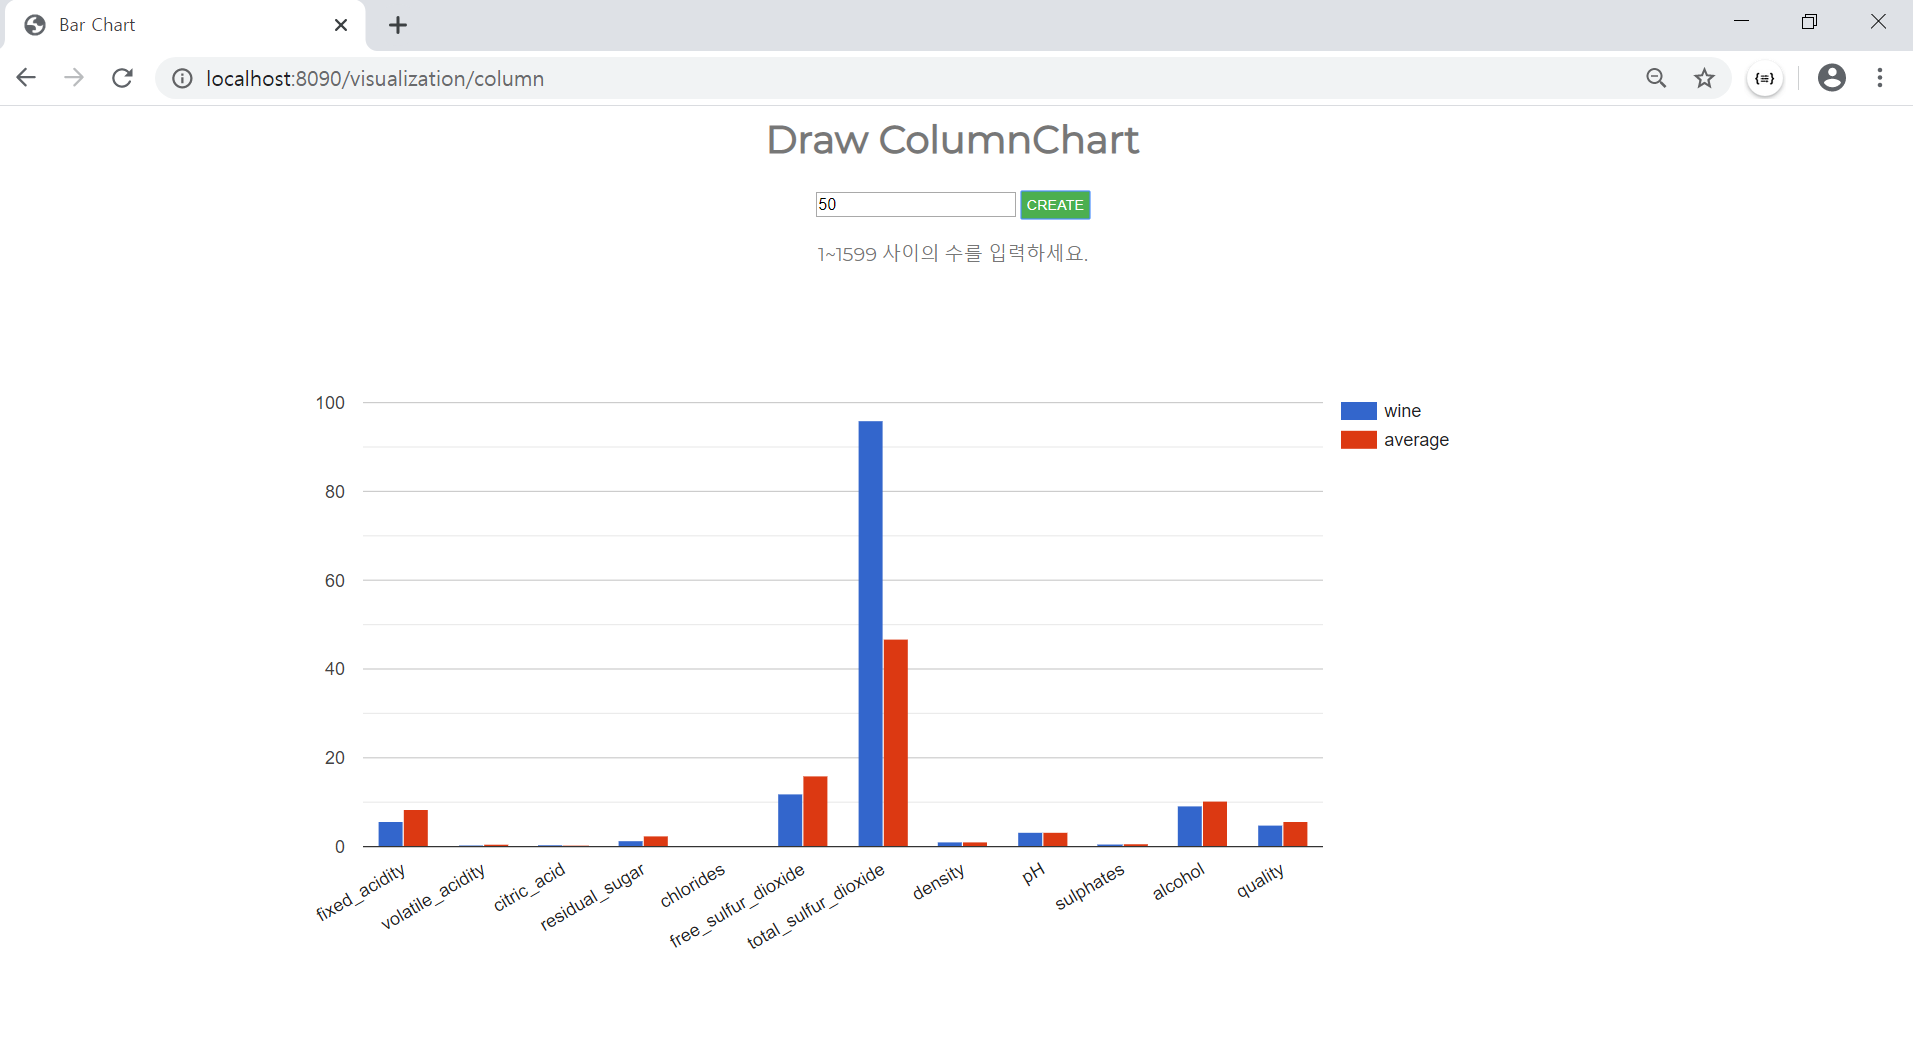
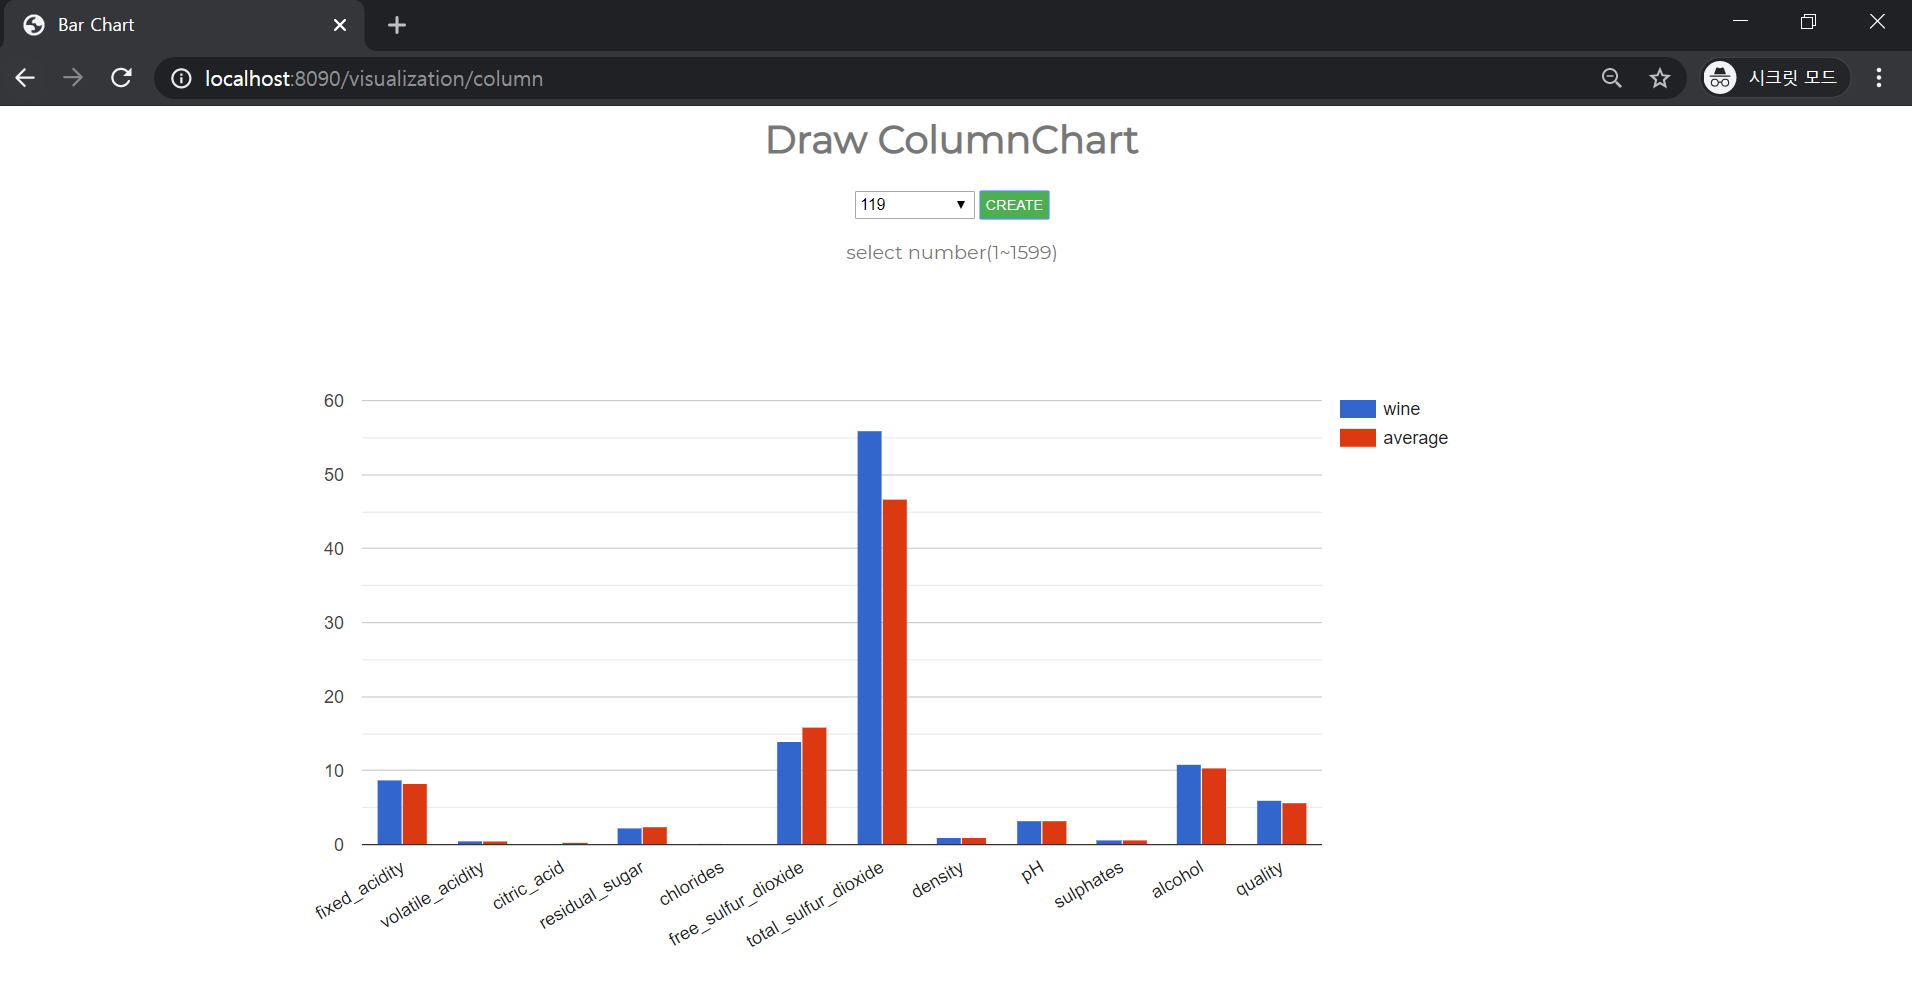
update week4-report

diff --git a/4주차/visualization/src/main/webapp/resources/js/area.js b/4주차/visualization/src/main/webapp/resources/js/area.js
@@ -1,14 +1,23 @@
 $( document ).ready(function() {
+	createSelect();
 	drawChart();
 });
  
  
 
 google.charts.load('current', {'packages':['corechart']});
-
-
 google.charts.setOnLoadCallback(drawChart);
 
+
+function createSelect(){
+	for(var n=1; n<1600; n++){
+		var ops = document.getElementById("num").options;
+		var op = new Option();
+		op.value = n;
+		op.text = n;
+	    ops.add(op);
+	}
+}
 
 function drawChart() {
   $("#draw_chart").click(function(){  

diff --git a/4주차/visualization/src/main/webapp/resources/js/column.js b/4주차/visualization/src/main/webapp/resources/js/column.js
@@ -1,14 +1,23 @@
 $( document ).ready(function() {
+	createSelect();
 	drawChart();
 });
  
  
 
 google.charts.load('current', {'packages':['corechart']});
-
-
 google.charts.setOnLoadCallback(drawChart);
 
+
+function createSelect(){
+	for(var n=1; n<1600; n++){
+		var ops = document.getElementById("num").options;
+		var op = new Option();
+		op.value = n;
+		op.text = n;
+	    ops.add(op);
+	}
+}
 
 function drawChart() {
   $("#draw_chart").click(function(){  

diff --git a/4주차/visualization/src/main/webapp/resources/js/line.js b/4주차/visualization/src/main/webapp/resources/js/line.js
@@ -1,13 +1,23 @@
 $( document ).ready(function() {
+	createSelect();
 	drawChart();
 });
  
  
 
 google.charts.load('current', {'packages':['corechart']});
-
-
 google.charts.setOnLoadCallback(drawChart);
+
+
+function createSelect(){
+	for(var n=1; n<1600; n++){
+		var ops = document.getElementById("num").options;
+		var op = new Option();
+		op.value = n;
+		op.text = n;
+	    ops.add(op);
+	}
+}
 
 
 function drawChart() {

diff --git a/4주차/visualization/src/main/webapp/resources/js/pie.js b/4주차/visualization/src/main/webapp/resources/js/pie.js
@@ -1,12 +1,23 @@
 $( document ).ready(function() {
+	createSelect();
 	drawChart();
 });
  
  
+
 google.charts.load('current', {'packages':['corechart']});
-
-
 google.charts.setOnLoadCallback(drawChart);
+
+
+function createSelect(){
+	for(var n=1; n<1600; n++){
+		var ops = document.getElementById("num").options;
+		var op = new Option();
+		op.value = n;
+		op.text = n;
+	    ops.add(op);
+	}
+}
 
 
 function drawChart() {

diff --git a/4주차/visualization/src/main/webapp/resources/css/home.css b/4주차/visualization/src/main/webapp/resources/css/home.css
@@ -18,4 +18,7 @@ body{
   margin: 2px 0px;
   cursor: pointer;
 }
-
+select{
+	width : 100px;
+	height : 23px;
+}

diff --git a/4주차/주간보고서.md b/4주차/주간보고서.md
@@ -15,18 +15,18 @@
      - ![1582806581667](./images/home.PNG)
 
   2. PieChart
-     - 조회하고자 하는 wine의 번호 입력
+     - 조회하고자 하는 wine의 번호를 선택
      - ![1582806867055](./images/img_pie.PNG)
   3. ColumnChart
-     - 조회하고자 하는 wine의 번호 입력
+     - 조회하고자 하는 wine의 번호를 선택
      - 각 항목의 평균치와 비교
      - ![1582806953374](./images/img_column.PNG)
   4. LineChart
-     - 조회하고자 하는 wine의 번호 입력
+     - 조회하고자 하는 wine의 번호를 선택
      - 각 항목의 평균치와 비교
      - ![1582807003499](./images/img_line.PNG)
   5. AreaChart
-     - 조회하고자 하는 wine의 번호 입력
+     - 조회하고자 하는 wine의 번호를 선택
      - 각 항목의 평균치와 비교
      - ![1582807036207](./images/img_area.PNG)
   
